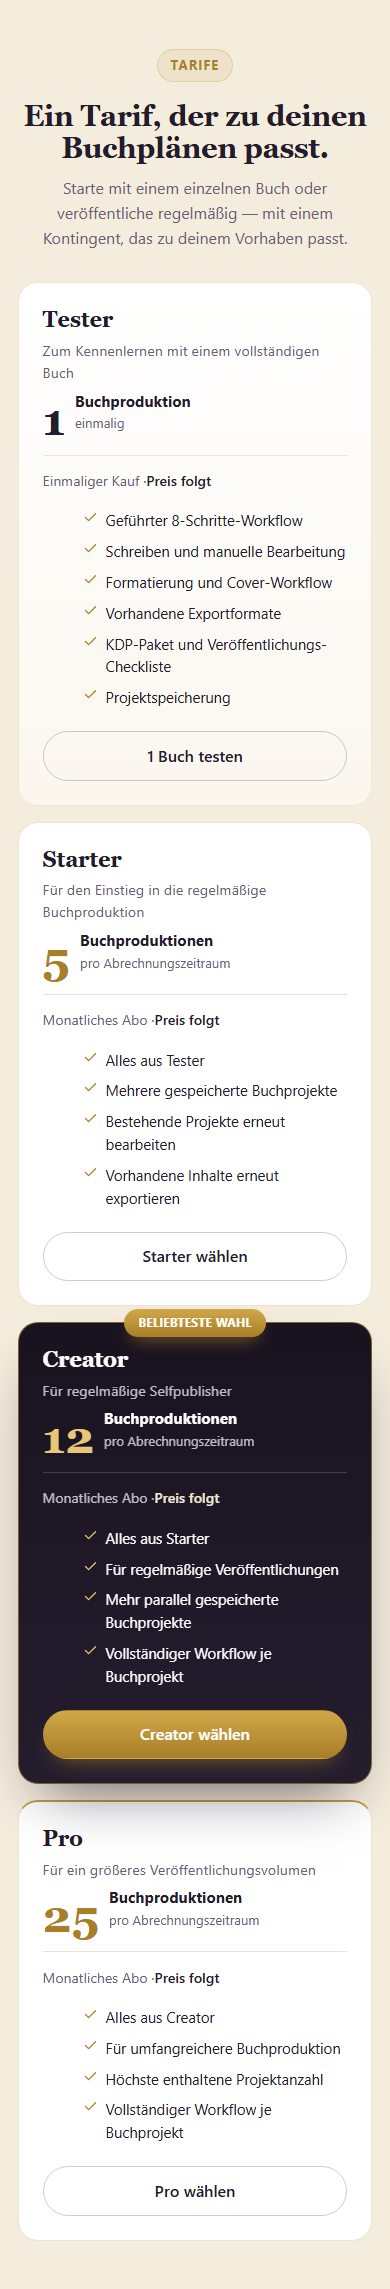
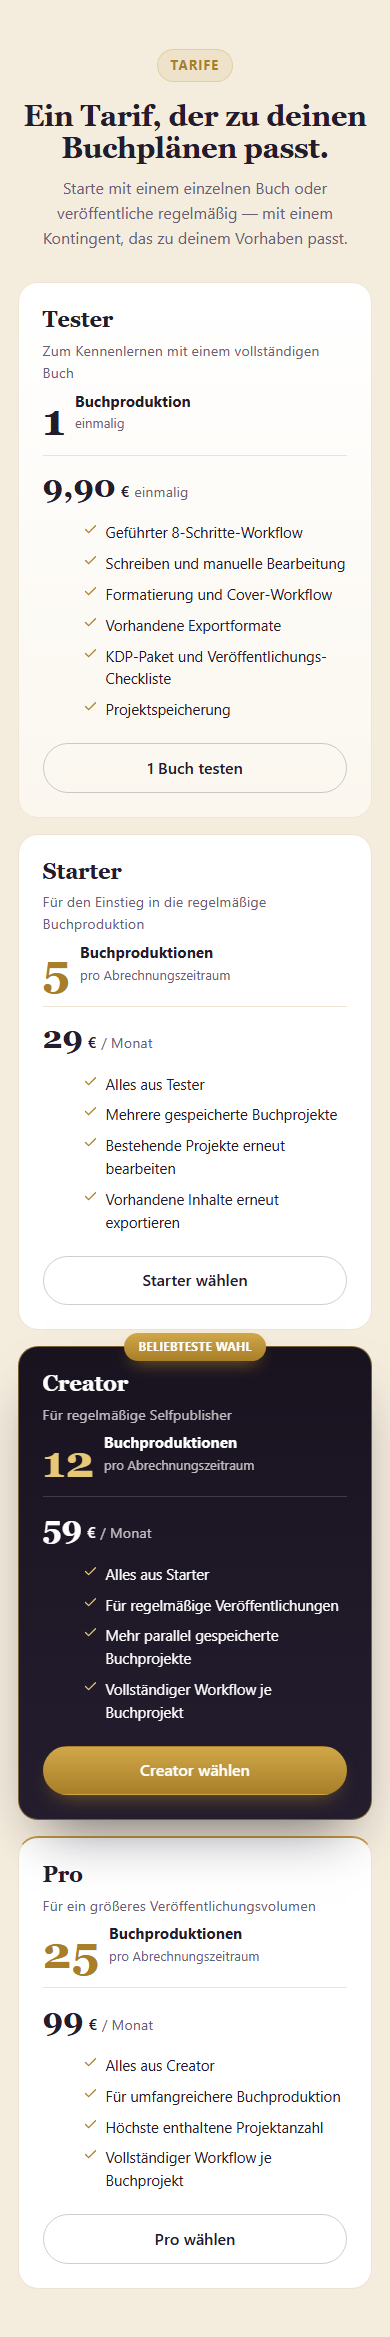
feat(landing): set preliminary tier prices (replace „Preis folgt")
Replaces the price placeholder with the preliminary launch prices — no other
change to the pricing section's composition, card structure, colours, typography
or order; the rest of the landing page, studio, auth, Firebase and main are
untouched.

- Tester 9,90 € einmalig · Starter 29 € / Monat · Creator 59 € / Monat (stays
  „Beliebteste Wahl") · Pro 99 € / Monat.
- Price shown prominently: large value with smaller currency and billing note,
  German notation, in the existing price slot (no new price box/section).
- No strike-through/reference prices, no discounts, no annual prices, no VAT
  statement, no free-trial claims.
- Prices live centrally and type-safe in pricing-data.ts (split into
  value/currency/period); the template only binds them (not scattered).
- CTA behaviour unchanged: signed-out → /register?plan=<id>; signed-in → honest
  notice. No Stripe, no real payment, no unlock, no subscription state.

Checks: prod build, prettier, lint, typecheck, file-size/function-size/jsdoc/
console/frontend-secrets — all green. 0 horizontal overflow, 0 console errors.
Screenshots updated (desktop 1440×900, mobile 390×844).

diff --git a/apps/studio-web/src/app/landing/pricing-data.ts b/apps/studio-web/src/app/landing/pricing-data.ts
@@ -1,8 +1,8 @@
-// Central, type-safe pricing configuration for the landing page. Final prices
-// are not decided yet — every plan shows PRICE_PLACEHOLDER, and only real,
-// currently shipping product features are listed (no invented prices, discounts,
-// free trials or capabilities). The real differentiator is the number of
-// included book productions. Swap priceLabel here once final.
+// Central, type-safe pricing configuration for the landing page. Prices are
+// preliminary launch prices, split into value / currency / period so the amount
+// can read large with a smaller currency and billing note. Only real, currently
+// shipping product features are listed (no invented discounts, annual prices,
+// strike-throughs, VAT statements or free trials). Swap the values here.
 
 export type BillingType = 'oneTime' | 'subscription';
 
@@ -15,16 +15,14 @@ export interface Plan {
   readonly booksLabel: string;
   readonly booksNote: string;
   readonly billingType: BillingType;
-  readonly billingLabel: string;
-  readonly priceLabel: string;
+  readonly priceValue: string;
+  readonly priceCurrency: string;
+  readonly pricePeriod: string;
   readonly highlighted: boolean;
   readonly highlightLabel?: string;
   readonly features: readonly string[];
   readonly ctaLabel: string;
 }
-
-/** Shown until final prices are decided (centrally swappable, kept subtle). */
-export const PRICE_PLACEHOLDER = 'Preis folgt';
 
 export const PLANS: readonly Plan[] = [
   {
@@ -35,8 +33,9 @@ export const PLANS: readonly Plan[] = [
     booksLabel: 'Buchproduktion',
     booksNote: 'einmalig',
     billingType: 'oneTime',
-    billingLabel: 'Einmaliger Kauf',
-    priceLabel: PRICE_PLACEHOLDER,
+    priceValue: '9,90',
+    priceCurrency: '€',
+    pricePeriod: 'einmalig',
     highlighted: false,
     features: [
       'Geführter 8-Schritte-Workflow',
@@ -56,8 +55,9 @@ export const PLANS: readonly Plan[] = [
     booksLabel: 'Buchproduktionen',
     booksNote: 'pro Abrechnungszeitraum',
     billingType: 'subscription',
-    billingLabel: 'Monatliches Abo',
-    priceLabel: PRICE_PLACEHOLDER,
+    priceValue: '29',
+    priceCurrency: '€',
+    pricePeriod: '/ Monat',
     highlighted: false,
     features: [
       'Alles aus Tester',
@@ -75,8 +75,9 @@ export const PLANS: readonly Plan[] = [
     booksLabel: 'Buchproduktionen',
     booksNote: 'pro Abrechnungszeitraum',
     billingType: 'subscription',
-    billingLabel: 'Monatliches Abo',
-    priceLabel: PRICE_PLACEHOLDER,
+    priceValue: '59',
+    priceCurrency: '€',
+    pricePeriod: '/ Monat',
     highlighted: true,
     highlightLabel: 'Beliebteste Wahl',
     features: [
@@ -95,8 +96,9 @@ export const PLANS: readonly Plan[] = [
     booksLabel: 'Buchproduktionen',
     booksNote: 'pro Abrechnungszeitraum',
     billingType: 'subscription',
-    billingLabel: 'Monatliches Abo',
-    priceLabel: PRICE_PLACEHOLDER,
+    priceValue: '99',
+    priceCurrency: '€',
+    pricePeriod: '/ Monat',
     highlighted: false,
     features: [
       'Alles aus Creator',

diff --git a/apps/studio-web/src/app/landing/_landing-pricing.scss b/apps/studio-web/src/app/landing/_landing-pricing.scss
@@ -111,14 +111,29 @@
   color: var(--lp-muted);
 }
 
-.lp-tier__billing {
-  font-size: 0.88rem;
-  color: var(--lp-muted);
+.lp-tier__price {
+  display: flex;
+  align-items: baseline;
+  flex-wrap: wrap;
+  gap: 0.3rem;
   margin-bottom: 1.1rem;
 }
-.lp-tier__price {
+.lp-tier__amount {
+  font-family: var(--font-display);
+  font-weight: 700;
+  font-size: 2rem;
+  line-height: 1;
+  letter-spacing: -0.01em;
+  color: var(--lp-text);
+}
+.lp-tier__cur {
+  font-size: 1rem;
   font-weight: 600;
   color: var(--lp-text);
+}
+.lp-tier__period {
+  font-size: 0.9rem;
+  color: var(--lp-muted);
 }
 
 .lp-tier__features {
@@ -148,7 +163,7 @@
 // Creator (dark) text/accent overrides
 .lp-tier--hl .lp-tier__aud,
 .lp-tier--hl .lp-tier__unit-note,
-.lp-tier--hl .lp-tier__billing {
+.lp-tier--hl .lp-tier__period {
   color: rgba(255, 255, 255, 0.72);
 }
 .lp-tier--hl .lp-tier__books {
@@ -158,8 +173,9 @@
 .lp-tier--hl .lp-tier__features lucide-icon {
   color: #e6c877;
 }
-.lp-tier--hl .lp-tier__price {
-  color: #f2e8cf;
+.lp-tier--hl .lp-tier__amount,
+.lp-tier--hl .lp-tier__cur {
+  color: #fff;
 }
 
 .lp-tiers__notice {

diff --git a/apps/studio-web/src/app/landing/landing.html b/apps/studio-web/src/app/landing/landing.html
@@ -246,9 +246,10 @@
               <span class="lp-tier__unit-note">{{ p.booksNote }}</span>
             </span>
           </div>
-          <p class="lp-tier__billing">
-            {{ p.billingLabel }} <span aria-hidden="true">·</span>
-            <span class="lp-tier__price">{{ p.priceLabel }}</span>
+          <p class="lp-tier__price">
+            <span class="lp-tier__amount">{{ p.priceValue }}</span>
+            <span class="lp-tier__cur">{{ p.priceCurrency }}</span>
+            <span class="lp-tier__period">{{ p.pricePeriod }}</span>
           </p>
           <ul class="lp-tier__features">
             @for (f of p.features; track f) {